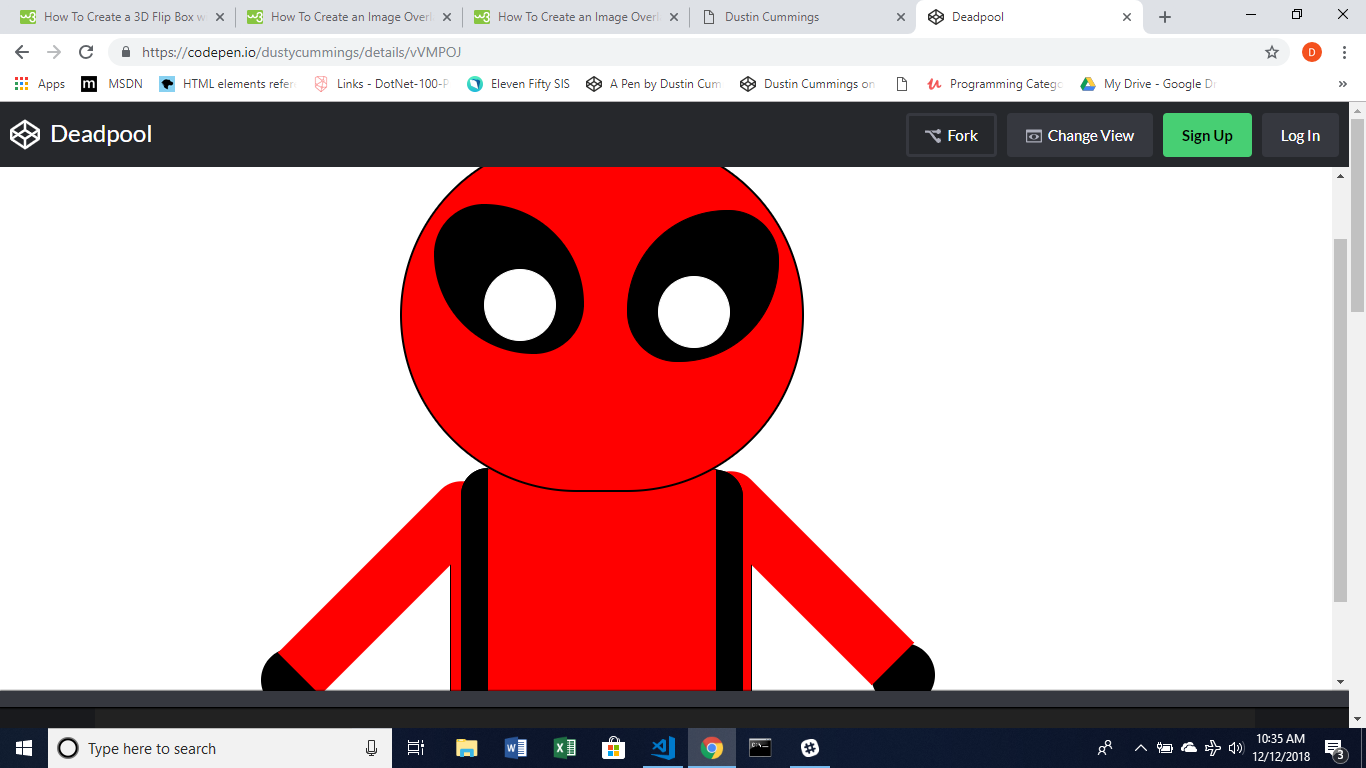
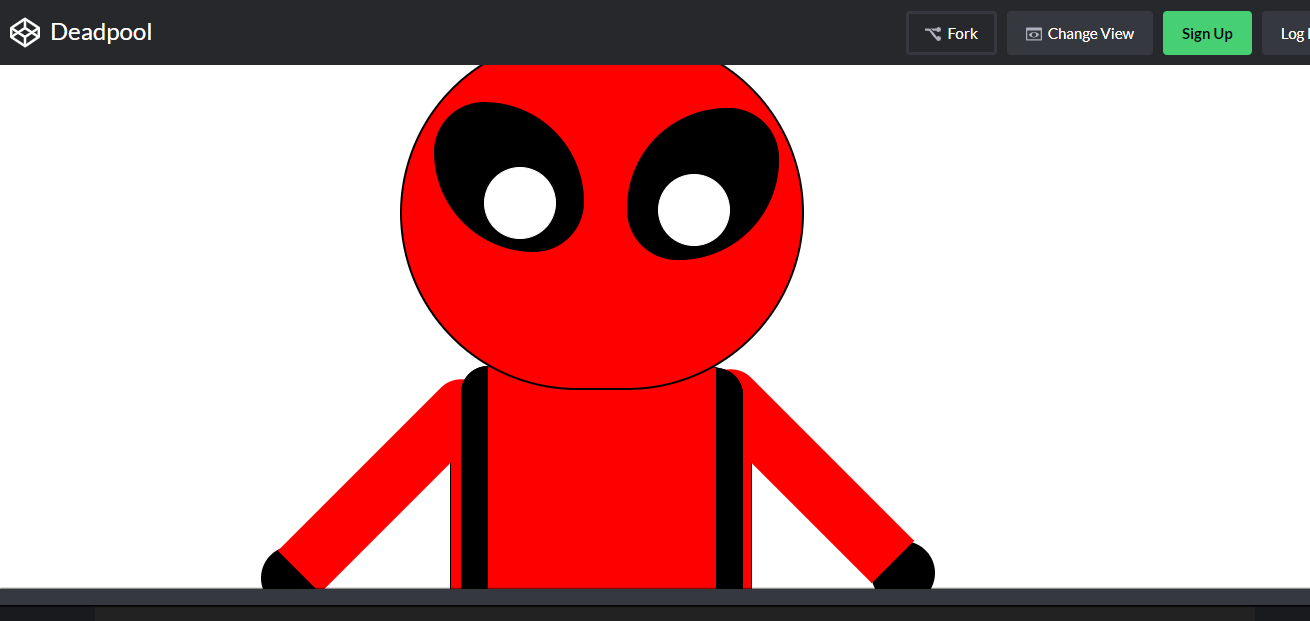
cropped pictures to make site look better

diff --git a/index.html b/index.html
@@ -36,11 +36,11 @@
 
   <!--Header-->
   <div class="jumbotron">
-    <h1 class="display-1">Dustin Cummings</h1>
+    <h1 class="display-1"><strong>Dustin Cummings</strong></h1>
     <p class="lead">.NET DEVELOPER</p>
     <!-- <hr class="my-4"> -->
     <p></p>
-    <button href="#" id="resumeBtn">Resume</button>
+    <button href="#" id="resumeBtn" >Resume</button>
     <!-- Trigger/Open The Modal -->
     <button id="myBtn">Contact Me</button>
 
@@ -96,9 +96,10 @@
   <section id="about">
 
     <h1><strong>About Me </strong></h1>
-    <p><b>I am from the Indianapolis area. I worked at the Dick's Sporting Goods Distribution Center in Plainfield, IN
-        for 15 years. I held many different roles while at Dick's Sporting Goods with my last role being a supervisor.
-      </b></p>
+    <p><b>I am new to the coding world. Before taking the class at Eleven Fifty Academy I never even thought about trying to code. But after talking to a few people I figured I would give it a shot and see if I had what it takes.</b></P><br>
+      <p><b>I worked at the Dick's Sporting Goods Distribution Center in Plainfield, IN
+        for 15 years before taking the leap to . While at Dick's Sporting Goods I held many different roles with my being a supervisor of distribution.  
+      </b></p>      
     <br>
     <br>
 
@@ -130,10 +131,10 @@
           </div>
         </div>
         <div class="column">
-          <img src="./assests/img/CSS Creature.png" class="image" style="width:100%">
+          <img src="./assests/img/ASP Website.png" class="image" style="width:100%">
           <div class="overlay">
             <div class="text">ASP .NET Application: This website has 3 tables that flow with each other.
-              HTML,CSHTML,RAZOR, and very little JavaScript was used. Click<a href="" target="blank"> here</a> to view
+              HTML,CSHTML,RAZOR, and very little JavaScript was used. Click<a href="https://cateringcoodinator.azurewebsites.net/" target="blank"> here</a> to view
               application.
             </div>
           </div>
@@ -220,8 +221,8 @@
   <!--Footer section-->
   <footer>
     <div class="container-footer">
-      <span>&copy;
-        <b>2018 Dustin Cummings</b>
+      <span>&copy; 
+        <b> Dustin Cummings</b>
       </span>
     </div>
   </footer>
